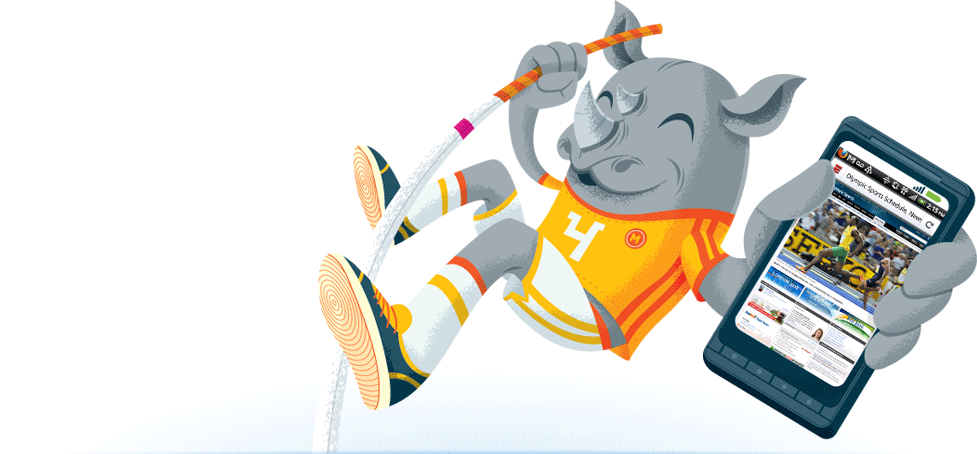
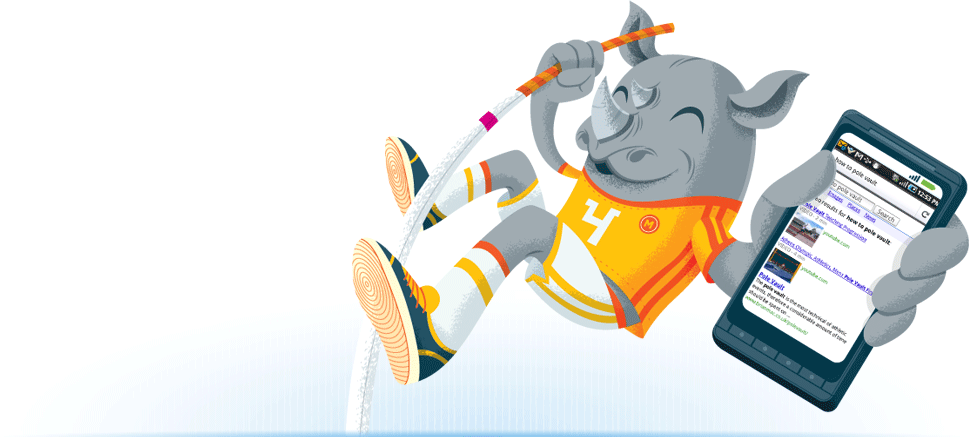
[Bug 630739] New: add pole vaulter back to mozilla.com/mobile
git-svn-id: https://svn.mozilla.org/projects/mozilla.com/trunk@82052 4eb1ac78-321c-0410-a911-ec516a8615a5

Changed region(s): [[0.1238, 0.0, 1.0, 1.0]]

diff --git a/style/covehead/mobile-home.css b/style/covehead/mobile-home.css
@@ -1,7 +1,8 @@
 /* {{{ Main Feature */
 
+#mobile-home #doc,
 #mobile-home.feature-rhino #doc {
-	background: url(/img/covehead/mobile/background-rhino.png) 0 143px no-repeat;
+	background: url(/img/covehead/mobile/background-rhino.png) 0 160px no-repeat;
 }
 
 #mobile-home #doc,
@@ -9,7 +10,6 @@
 	background: url(/img/covehead/mobile/background-trapeze.png) 100% 0 no-repeat;
 }
 
-#mobile-home #feature-header,
 #mobile-home.feature-trapeze #feature-header {
 	background: url(/img/covehead/mobile/background-trapeze.png) -661px -10px no-repeat;
 	height: 56px;

diff --git a/en-US/mobile/index.html b/en-US/mobile/index.html
@@ -11,7 +11,7 @@ EXTRA_HEADERS;
     include_once "{$config['file_root']}/{$lang}/includes/header.inc.php";
 ?>
 
-<!--script>// <![CDATA[
+<script>// <![CDATA[
     // Add a class to the body tag to alternate background features
     var feature_class_options = new Array( "trapeze", "rhino" );
 
@@ -27,7 +27,7 @@ EXTRA_HEADERS;
             document.body.className += ' feature-'+feature_class_options[choice];
         }
     }
-// ]]></script-->
+// ]]></script>
 
 <div id="feature-header"></div>
 <div id="main-feature">
